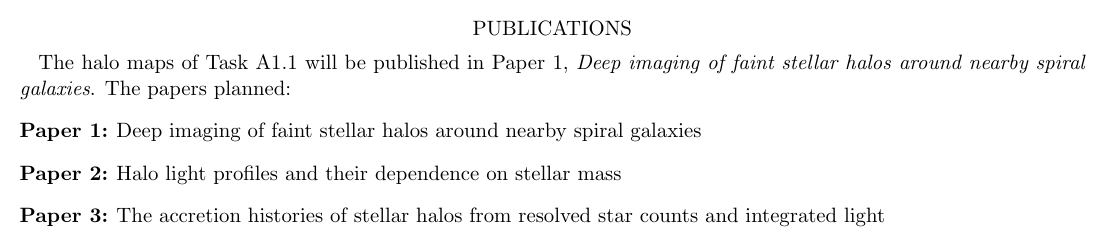
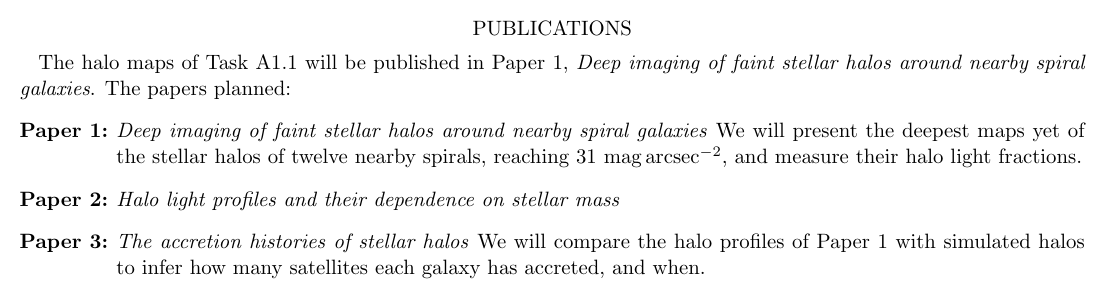
Planned papers: each paper's description, from its Description in the plan
- A paper's description is the Description typed for its item ("Paper N: title") in the plan;
  descriptions of other items are still never printed. It is LaTeX like the titles (a bare &, %
  or # written \&, \%, \#), with its paragraphs kept.
- \listplannedpapers gives Paper N:, the title in italics, then the description; a paper with no
  description is listed with its title only. New settings: \PlannedPaperDescriptionFormat,
  \PlannedPaperSeparator and \PlannedPaperDescriptionsfalse (titles only).
- \paperdescription{N} prints a paper's description anywhere in the document.
- \WorPTRoman{N} gives capital Roman numerals, for labels such as "Publication I:".
- Plan tab: a paper's Description box says it is printed in the papers list; its help says so too.

diff --git a/Index.html b/Index.html
@@ -998,7 +998,8 @@ function viewItem(n, nodes) {
     '<div class="row" style="gap:10px;align-items:flex-start;flex-wrap:wrap"><label class="f" style="flex:2 1 300px">Title<input data-save="item:' + it.id + ':title" data-version="' + it.version + '" value="' + esc(it.title) + '" maxlength="500"></label>' +
     '<label class="f" style="flex:1 1 200px"><span>Short title <span class="muted">(optional)</span>' + info(HELP.short) + '</span><input data-save="item:' + it.id + ':short_title" data-version="' + it.version + '" value="' + esc(it.short_title || '') + '" maxlength="200" placeholder="' + esc(it.title || '') + '" aria-description="' + esc(HELP.short) + '"></label></div>' +
     '<label class="f"><span>Description <span class="muted">(optional)</span>' + info(HELP.description) + '</span><textarea data-save="item:' + it.id + ':description" data-version="' + it.version + '" rows="2" ' +
-      'placeholder="What this ' + LEVEL[d].toLowerCase() + ' stands for and involves: a reminder of what to describe in the proposal" aria-description="' + esc(HELP.description) + '">' + esc(it.description || '') + '</textarea></label>';
+      'placeholder="' + (paperNumber(it.title) ? 'What Paper ' + paperNumber(it.title) + ' will present: printed after its title in the list of planned papers (LaTeX allowed)'
+        : 'What this ' + LEVEL[d].toLowerCase() + ' stands for and involves: a reminder of what to describe in the proposal') + '" aria-description="' + esc(HELP.description) + '">' + esc(it.description || '') + '</textarea></label>';
   if (d === 0) return html + '<p class="muted" style="margin:0;line-height:1.5">A task category groups related tasks. It has no timeline or people of its own; its line on the calendar and its numbers come from its tasks (' + (+itemWeeks(it.id).toFixed(1)) + ' weeks in all).</p>' +
     '<div><button type="button" class="btn" data-act="addTask">+ Task in this category</button></div>';
   if (!leaf) {
@@ -1038,9 +1039,12 @@ function viewItem(n, nodes) {
     (work.some(a => a.is_team) && unnamed.length === 0 ? '<p class="hint">"Everyone not named (team)" covers nobody here, because everyone on the team is named on this ' + (d === 2 ? 'subtask' : 'task') + '.</p>' : '') + '</div>';
 }
 // The details' explanations, behind a small ⓘ beside what they explain (hover, or tab to it), so the panel stays compact.
+/** The paper number of an item titled "Paper N: title" (any capitals, any spaces), as WorPT's papers list reads it; else 0. */
+function paperNumber(title) { const m = /^\s*paper\s*(\d+)\s*:/i.exec(title || ''); return m ? +m[1] : 0; }
 const HELP = {
   short: 'The schedule and task management tables keep each title to one line: they show the short title when there is one, otherwise the title, cut short with "…" if it is too long for the line. The plan shows it too; hover over a title there to see the full title.',
-  description: 'For your team only: it shows when you hover over the title in the plan (a dotted underline marks titles that have one), and is never printed in the tables.',
+  description: 'For your team only: it shows when you hover over the title in the plan (a dotted underline marks titles that have one), and is never printed in the tables. ' +
+    'The one exception is a paper (an item titled "Paper N: title"): its description is printed after its title in the list of planned papers (\\listplannedpapers), and wherever \\paperdescription{N} is used. It is LaTeX, like the titles.',
   timeline: 'Or drag its bar on the calendar (click the bar and press Delete to remove it). A year has 52 weeks: Q1 is weeks 1–13, Q2 14–26, Q3 27–39, Q4 40–52.',
   get weeks() { return 'Each person\'s total effort on this item, in weeks. The green figure beside it is that effort in FTE, counted over the whole item (weeks ÷ ' + ((S.P && S.P.proposal.weeks_per_fte) || 52) + '), updated as you type; the panel below the calendar shows how it lands in each year once saved.'; },
   unfunded: 'The part of the weeks not paid by this proposal. For example, 1.5 weeks with 0.5 unfunded is 1.0 week funded plus 0.5 week unfunded. A collaborator\'s weeks are all unfunded.'

diff --git a/cloud/tests/test_latex.py b/cloud/tests/test_latex.py
@@ -478,3 +478,27 @@ def test_typed_ampersand_percent_and_hash_compile_in_every_table(tmp_path):
     flat = ' '.join(text.split())
     for typed in ('Validation & Scaling', 'Science & Tests', 'Halos & 100% #1', 'A1 & A2 (50%)', 'Lab #3 & Co', 'Materials & Supplies', 'Doe & Roe'):
         assert typed in flat, typed
+
+
+@pytest.mark.parametrize('cls', ['{aastex702}', '[twocolumn]{aastex702}', 'revtex4-2'])
+def test_planned_papers_with_descriptions(cls, tmp_path):
+    """The list gives each paper's label, its title in italics and its description (paragraphs kept, your own macros
+    and references working); \\paperdescription{N} gives a description on its own; with \\PlannedPaperDescriptionsfalse
+    the list has the titles only, and \\WorPTRoman makes "Publication I:" labels."""
+    if not works(cls): pytest.skip(f'{cls} does not work on this machine, even without WorPT')
+    if not shutil.which('pdftotext'): pytest.skip('pdftotext is not installed')
+    from worpt.model import Item, Person, Proposal
+    goals = [Item('Science', children=[Item('Paper 1: Exploring the LSB universe', description='we will explore \\RST/WFI & more, as in Sec.~\\ref{sec:m}.\n\nA second paragraph.'),
+                                       Item('Paper 3: Streams')])]
+    out = build(Proposal('T', 'NASA', 1, [Person('PI', 'PI', True, last='Doe')], goals), ['isANONpapers'])
+    (tmp_path / 'isANONpapers.tex').write_text(out['isANONpapers']); shutil.copy(TEMPLATE_DIR / 'worpt.sty', tmp_path)
+    (tmp_path / 'doc.tex').write_text(documentclass(cls) + '\n\\newcommand\\RST{Roman}\n' + paste_in('worpt') + EDGES + '\\begin{document}\n' + front(cls) +
+        '\\section{Methods}\\label{sec:m}\nAlone: \\paperdescription{1} End. None: [\\paperdescription{3}].\n\n' + paste_in('isANONpapers') +
+        '\nTitles only:\n\\PlannedPaperDescriptionsfalse\\def\\PlannedPaperLabel#1{\\textbf{Publication~\\WorPTRoman{#1}:}}\\listplannedpapers\n\\end{document}\n')
+    log, text = compile_doc(tmp_path)
+    assert not [l for l in log.splitlines() if l.startswith('!')], cls
+    flat = re.sub(r'Sec\. \w+\.', 'Sec. N.', ' '.join(text.split()).replace('- ', ''))       # whatever the class numbers it
+    assert 'Alone: we will explore Roman/WFI & more, as in Sec. N. A second paragraph. End. None: [].' in flat, flat
+    assert 'Paper 1: Exploring the LSB universe we will explore Roman/WFI & more, as in Sec. N. A second paragraph. Paper 3: Streams Titles only:' in flat, flat
+    assert 'Publication I: Exploring the LSB universe Publication III: Streams' in flat, flat
+    assert not outside_block(tmp_path, tmp_path / 'doc.pdf'), cls

diff --git a/cloud/worpt/tables.py b/cloud/worpt/tables.py
@@ -698,7 +698,7 @@ PAPER = re.compile(r'\s*paper\s*(\d+)\s*:\s*(.*?)\s*\Z', re.I | re.S)
 
 def planned_papers(goals):
     """The work plan's papers: its categories, tasks and subtasks titled "Paper N: title" (any capitals, any spaces), as
-    {N: (title, label)} in number order, and the checks: a number used more than once (the first in the plan keeps it)
+    {N: (title, label, description)} in number order, and the checks: a number used more than once (the first in the plan keeps it)
     and a "Paper N:" with no title after it."""
     found, checks = {}, []
     for lab, depth, it, parent in label_tree(goals):
@@ -709,14 +709,14 @@ def planned_papers(goals):
         if n in found:
             checks.append(Check('warn', lab, f'is also titled "Paper {n}:", like {found[n][1]}; Paper {n} keeps {found[n][1]}\'s title'))
         else:
-            found[n] = (title, lab)
+            found[n] = (title, lab, (it.description or '').strip())
     return dict(sorted(found.items())), checks
 
 
 def papers(c):
     found, checks = planned_papers(c['p'].goals)
     c['r']['checks'].extend(checks)
-    lines = ''.join(f'\\WorPTpaper{{{n}}}{{{title}}}   % {lab}\n' for n, (title, lab) in found.items())
+    lines = ''.join(f'\\WorPTpaper{{{n}}}{{{title}}}{{{desc}}}   % {lab}\n' for n, (title, lab, desc) in found.items())
     return template('isANONpapers').replace('[INSERTFILENAME]', 'isANONpapers').replace('[INSERTPAPERS]', lines.rstrip('\n'))
 
 
@@ -734,7 +734,8 @@ def latex_text(s):
 def as_latex_text(p):
     """The proposal with the text people type (names, institutions, positions, summaries, titles, non-labor items) made
     LaTeX by latex_text."""
-    def item(it): return dataclasses.replace(it, title=latex_text(it.title), short_title=latex_text(it.short_title), children=[item(k) for k in it.children])
+    def item(it): return dataclasses.replace(it, title=latex_text(it.title), short_title=latex_text(it.short_title), description=latex_text(it.description),
+                                             children=[item(k) for k in it.children])
     def person(m): return dataclasses.replace(m, **{f: latex_text(getattr(m, f)) for f in PERSON_TEXT if hasattr(m, f)})
     return dataclasses.replace(p, members=[person(m) for m in p.members], goals=[item(g) for g in p.goals],
                                nonlabor=[dataclasses.replace(n, item=latex_text(n.item)) for n in p.nonlabor])

diff --git a/cloud/worpt/store.py b/cloud/worpt/store.py
@@ -85,7 +85,7 @@ AUTO_SNAPSHOT_DAYS = 60          # automatic snapshots are kept this long; named
 # Columns added after the first release, so an existing database gains them when the server starts.
 ADDED_COLUMNS = [('people', 'expertise', "TEXT NOT NULL DEFAULT ''"), ('people', 'pronoun', "TEXT NOT NULL DEFAULT ''"),
                  ('items', 'start_week', 'INTEGER'), ('items', 'end_week', 'INTEGER'), ('items', 'short_title', "TEXT NOT NULL DEFAULT ''"),
-                 ('items', 'description', "TEXT NOT NULL DEFAULT ''"),   # a note on what the item stands for; shown in the dashboard only
+                 ('items', 'description', "TEXT NOT NULL DEFAULT ''"),   # a note on what the item stands for; printed only for papers (Paper N: titles)
                  ('history', 'step', 'INTEGER'),                         # the step (request) a change was part of, for undo
                  ('proposals', 'frozen_at', 'TEXT'), ('proposals', 'frozen_by', 'TEXT'),   # a frozen work plan can't be changed
                  ('members', 'other_months', "TEXT NOT NULL DEFAULT '[]'")]   # per year: months on other currently funded projects
@@ -1174,7 +1174,7 @@ class Store:
                           prefix=m['prefix'], suffix=m['suffix'], institution=m['institution'], position=m['position'],
                           bio_summary=m['bio_summary'], task_summary=m['task_summary'], trips=m['trips'],
                           other_months=m.get('other_months') or []) for m in data['members']]
-        nodes = {i['id']: Item(i['title'], short_title=i.get('short_title', ''), start=(i['start_year'], i['start_week']) if i['start_year'] and i['start_week'] else None,
+        nodes = {i['id']: Item(i['title'], short_title=i.get('short_title', ''), description=i.get('description', ''), start=(i['start_year'], i['start_week']) if i['start_year'] and i['start_week'] else None,
                                end=(i['end_year'], i['end_week']) if i['end_year'] and i['end_week'] else None) for i in data['items']}
         for a in data['assignments']:
             nodes[a['item_id']].assignments.append(Assignment('team' if a['is_team'] else short[a['member_id']], a['weeks'], a['unfunded'], a['is_lead']))

diff --git a/cloud/tests/test_tables.py b/cloud/tests/test_tables.py
@@ -227,7 +227,7 @@ def test_planned_papers_come_from_items_titled_paper_n():
                  Item('Observations', children=[Item('PAPER 1:Deep imaging'), Item('Paper 1: Another'), Item('Paper 3:')]),
                  Item('Paper one: not a number')])]
     out = build(Proposal('T', 'NASA', 1, [Person('PI', 'PI', True, last='Doe')], goals), ['isANONpapers'])
-    assert re.findall(r'^\\WorPTpaper\{(\d+)\}\{(.*)\}   % (\S+)$', out['isANONpapers'], re.M) == [
+    assert re.findall(r'^\\WorPTpaper\{(\d+)\}\{(.*)\}\{\}   % (\S+)$', out['isANONpapers'], re.M) == [
         ('1', 'Deep imaging', 'A3.1'), ('2', 'Halo light profiles of $M_\\star$ galaxies', 'A2'), ('3', '', 'A3.3'), ('5', 'A review', 'A')]
     assert out['isANONpapers'].index('\\WorPTresetPapers') < out['isANONpapers'].index('\\WorPTpaper{1}')
     said = [(c.item, c.message) for c in out['_checks'] if 'Paper' in c.message]
@@ -251,3 +251,13 @@ def test_a_bare_ampersand_percent_or_hash_in_typed_text_is_written_as_latex():
                        ('isANONnonlabor', 'Materials \\& Supplies'), ('NOTANONfte', 'Doe \\& Roe')):
         assert want in out[name], (name, want)
     assert 'Validation & Scaling' not in ''.join(out[n] for n in TABLES)
+
+
+def test_a_papers_description_is_the_one_typed_for_it_in_the_plan():
+    """Each paper's description is the Description typed for its item in the plan (LaTeX, a bare & written \\&, its
+    paragraphs kept); the descriptions of other items are not printed anywhere."""
+    goals = [Item('Science', description='Not a paper: stays in the dashboard', children=[
+                 Item('Paper 1: Halos', description='We will map halos & tails\n\nwith \\RST.'), Item('Paper 2: Streams')])]
+    out = build(Proposal('T', 'NASA', 1, [Person('PI', 'PI', True, last='Doe')], goals))
+    assert '\\WorPTpaper{1}{Halos}{We will map halos \\& tails\n\nwith \\RST.}   % A1\n\\WorPTpaper{2}{Streams}{}   % A2' in out['isANONpapers']
+    assert not any('stays in the dashboard' in out[n] for n in TABLES)

diff --git a/cloud/tests/test_server.py b/cloud/tests/test_server.py
@@ -1084,9 +1084,10 @@ def test_planned_papers_problems_show_on_the_dashboard_and_in_gootex(team):
     ann, pid = team['ann'], team['pid']
     goal = ann.ok('post', f'/api/proposals/{pid}/items', dict(title='Papers'))['item']
     for t in ('Paper 1: Deep imaging', 'paper 1: Another', 'Paper 2:'):
-        ann.ok('post', f'/api/proposals/{pid}/items', dict(title=t, parent_id=goal['id']))
+        it = ann.ok('post', f'/api/proposals/{pid}/items', dict(title=t, parent_id=goal['id']))['item']
+        if t.startswith('Paper 1'): ann.ok('patch', f"/api/items/{it['id']}", dict(version=it['version'], description='Halos & tails\r\n\r\nwith \\RST.'))
     said = {c['message'] for c in ann.ok('get', f'/api/proposals/{pid}')['computed']['checks'] if 'Paper' in c['message']}
     assert len(said) == 2 and any('also titled "Paper 1:"' in m for m in said) and any('Paper 2 has no title' in m for m in said)
     out = ann.ok('get', f'/api/proposals/{pid}/tables?files=1')
-    assert '\\WorPTpaper{1}{Deep imaging}' in out['files']['isANONpapers.tex'] and 'isANONpapers' in out['blocks']
+    assert '\\WorPTpaper{1}{Deep imaging}{Halos \\& tails\n\nwith \\RST.}' in out['files']['isANONpapers.tex'] and 'isANONpapers' in out['blocks']
     assert {c['message'] for c in out['checks'] if 'Paper' in c['message']} == said

diff --git a/cloud/worpt/effort.py b/cloud/worpt/effort.py
@@ -60,6 +60,7 @@ class Item:
     title: str
     children: list = field(default_factory=list)
     short_title: str = ''        # what the schedule and task management tables show, when given (else the title)
+    description: str = ''        # a note on the item (for a paper, "Paper N: title", its description in the papers list)
     start: tuple | None = None   # (year, week), both counted from 1; week 1 to 52
     end: tuple | None = None
     assignments: list = field(default_factory=list)

diff --git a/latexTableTemplates/isANONpapers/readme.md b/latexTableTemplates/isANONpapers/readme.md
@@ -15,8 +15,11 @@
 subtask whose title starts with <i>Paper N:</i> (for example <i>Paper 1: Deep imaging of faint stellar halos</i>; any
 capitals, any spaces) is paper N, with the rest of the title as the paper's title. Because the papers are known by the
 number you give them, not by their place in the plan, adding or moving tasks never changes which paper is which.
-In your document, <code>\papertitle{1}</code> prints paper 1's title anywhere (in the text, a heading, a caption), and
-<code>\listplannedpapers</code> lists the papers in number order: <i>Paper 1: title</i>, <i>Paper 2: title</i> ...
+A paper's description is the <i>Description</i> typed for its item in WorPT's plan (LaTeX, like the titles; the
+descriptions of other items are never printed).
+In your document, <code>\papertitle{1}</code> and <code>\paperdescription{1}</code> print paper 1's title and description
+anywhere (in the text, a heading, a caption), and <code>\listplannedpapers</code> lists the papers in number order:
+<b>Paper 1:</b> <i>title</i> description, <b>Paper 2:</b> <i>title</i> description ...
 </details>
 </td>
 </tr>
@@ -44,13 +47,14 @@ worpt.sty reads isANONpapers.tex by itself at <code>\begin{document}</code>, so 
              Paper titles in the text
 - - - - - - - - - - - - - - - - - - - - - - - - - - - - -->
 <details>
-<summary><b>A paper's title in the text</b></summary>
-Write <code>\papertitle{N}</code> wherever paper N's title should appear, for example:
+<summary><b>A paper's title or description in the text</b></summary>
+Write <code>\papertitle{N}</code> wherever paper N's title should appear, and <code>\paperdescription{N}</code> for its description, for example:
 <pre><code>
-The results of Task A1.1 will be published in Paper~1, \textit{\papertitle{1}}.
+The results of Task A1.1 will be published in Paper~1, \textit{\papertitle{1}}: \paperdescription{1}
 </code></pre>
 <ul>
-<li>The title is the work plan's, so it is always the current one: change the task's title in WorPT and the document follows at its next compile.</li>
+<li>The title and description are the work plan's, so they are always the current ones: change them in WorPT and the document follows at its next compile.</li>
+<li>The description is LaTeX: your own commands (\RST) and references (Sec.~\ref{sec:methods}) work, since they are worked out in your document. Its paragraphs are kept. A paper with no description gives nothing.</li>
 <li>A number with no paper (a mistyped number, or a paper taken out of the work plan) prints a bold <b>??</b>, and the LaTeX log says "There is no Paper N in the work plan".</li>
 <li>AASTeX makes section headings capitals letter by letter, which a command's text escapes: in a heading, write <code>\MakeUppercase{\papertitle{1}}</code> to have the title in capitals too.</li>
 <li>WorPT warns (on the dashboard, its Tables tab and in gooTeX's log) when two items are titled with the same paper number (the first in the plan keeps the number) or when a "Paper N:" has no title after it. Numbers need not follow on from each other: Paper 1, Paper 2, Paper 5 is fine.</li>
@@ -90,11 +94,18 @@ COPY any of the lines below (they show the default values), PASTE them into your
 <td><b>The list of papers</b></td>
 <td><pre><code>
 \def\PlannedPaperLabel#1{<mark>\textbf{Paper~#1:}</mark>}   % the label in front of each paper (#1 is its number)
-\def\PlannedPaperFormat#1{<mark>#1</mark>}                  % each title in the list (e.g. \textit{#1})
+\def\PlannedPaperFormat#1{<mark>\emph{#1}</mark>}           % each title in the list
+\def\PlannedPaperDescriptionFormat#1{<mark>#1</mark>}       % each description in the list
+\def\PlannedPaperSeparator{<mark> </mark>}                  % between a title and its description (e.g. {: } or {. })
+\PlannedPaperDescriptions<mark>true</mark>                     % false: the titles only
 \def\PlannedPapersSpace{<mark>\itemsep</mark>}               % space between papers in the list (a length, e.g. 2pt)
 \def\NoPlannedPapersText{<mark>\textbf{??} (no planned papers: the work plan has no tasks titled ``Paper N: title'')</mark>}
 </code></pre>
-The titles line up after the widest label, and a long title wraps under its own first line. When the work plan has no papers yet, the list is <code>\NoPlannedPapersText</code> instead, and the LaTeX log says so.</td>
+For <b>Publication I:</b>, <b>Publication II:</b> ... (capital Roman numerals), use
+<pre><code>
+\def\PlannedPaperLabel#1{\textbf{Publication~\WorPTRoman{#1}:}}
+</code></pre>
+The titles line up after the widest label, and a long title or description wraps under the title's first line. When the work plan has no papers yet, the list is <code>\NoPlannedPapersText</code> instead, and the LaTeX log says so.</td>
 </tr>
 
 </table>
